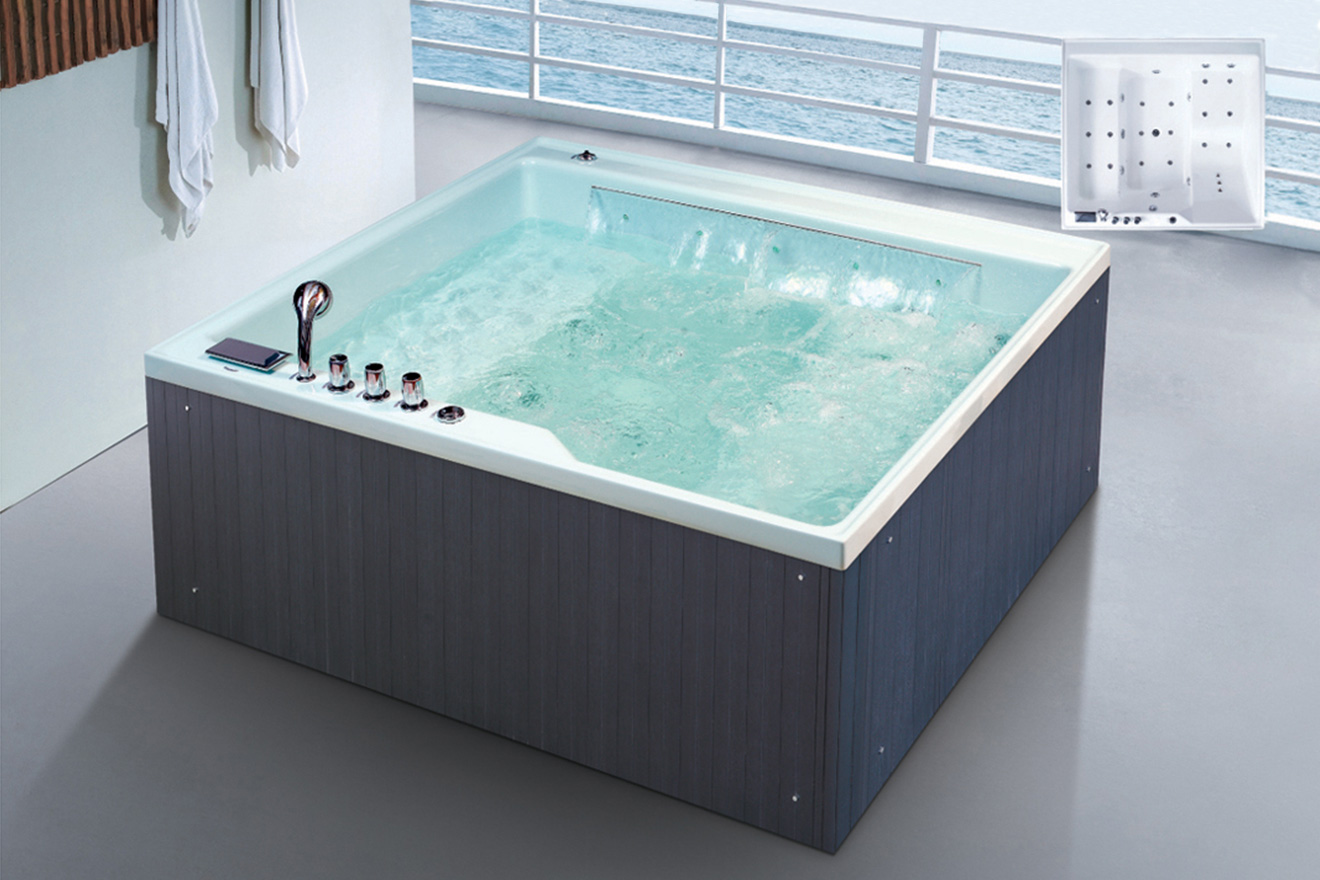
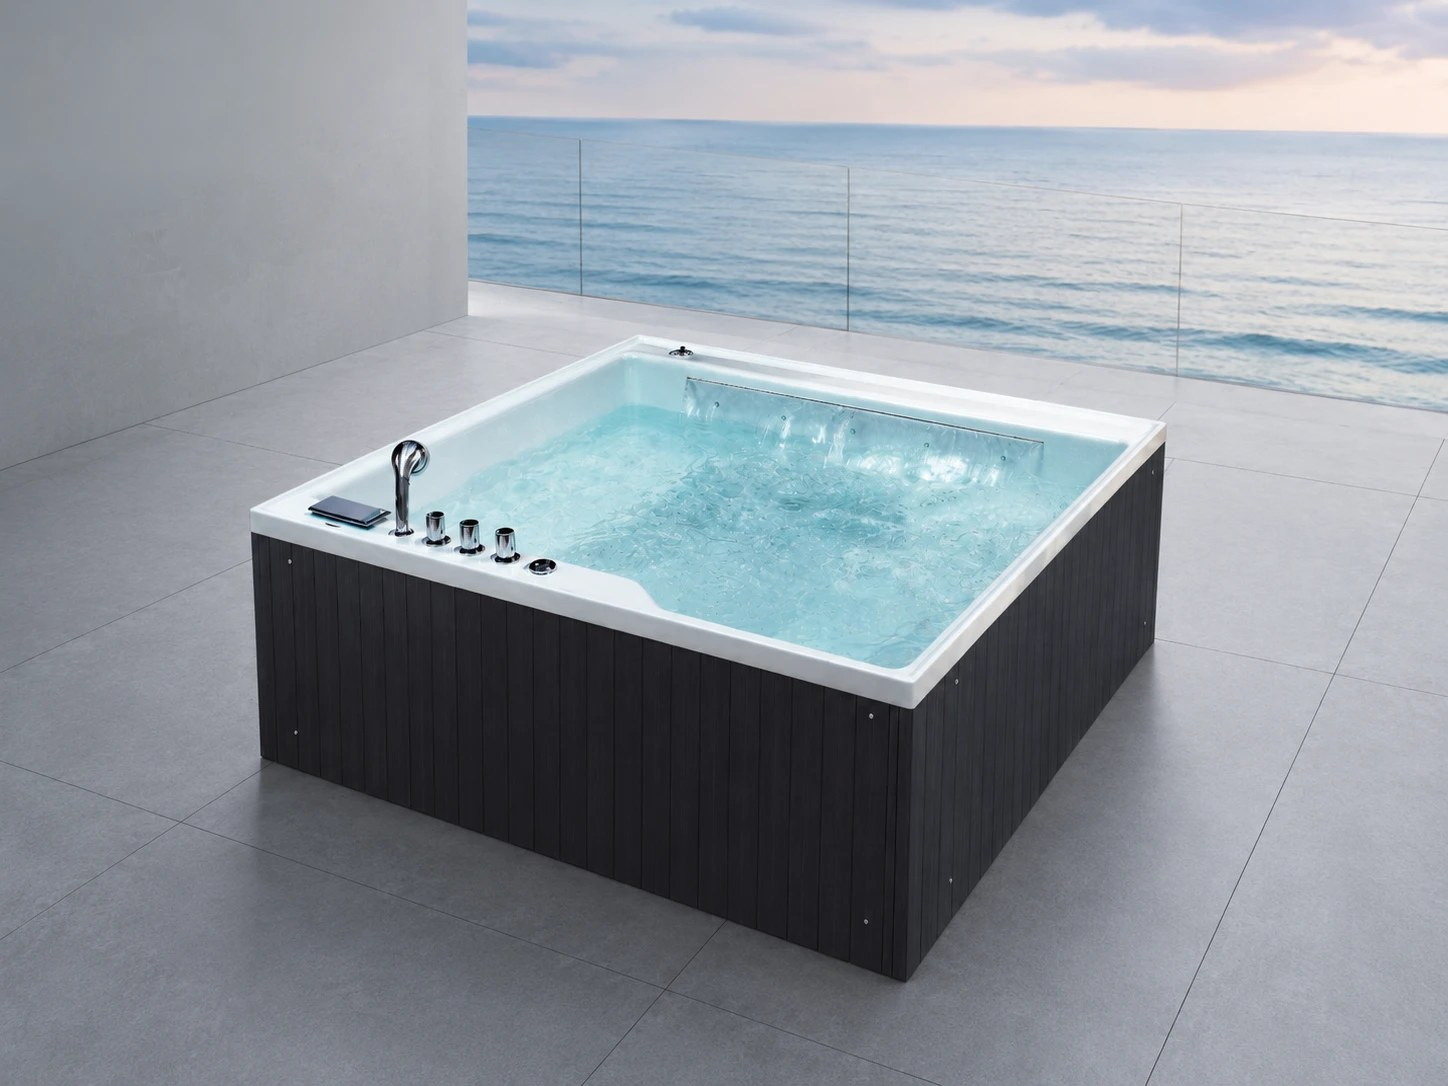
blanc ソレイルの商品画像を差し替え
Claude-Session: https://claude.ai/code/session_01DrNNKTKMSrygxVDYMT1CpJ

diff --git a/estimate/app.js b/estimate/app.js
@@ -456,13 +456,13 @@ function getDiscountRate() {
   return 0;
 }
 
-const IMG_V = '?v=5';
+const IMG_V = '?v=6';
 function imgWrap(filename, wrapClass) {
-  return `<div class="${wrapClass}"><img src="images/${filename}.jpg.jpg?v=5" alt="" onerror="this.src='images/${filename}.jpg.jpeg?v=5';this.onerror=function(){this.src='images/${filename}.jpg.png?v=5';this.onerror=function(){this.src='images/${filename}.jpg?v=5';this.onerror=function(){this.parentElement.style.display='none';}}}"></div>`;
+  return `<div class="${wrapClass}"><img src="images/${filename}.jpg.jpg?v=6" alt="" onerror="this.src='images/${filename}.jpg.jpeg?v=6';this.onerror=function(){this.src='images/${filename}.jpg.png?v=6';this.onerror=function(){this.src='images/${filename}.jpg?v=6';this.onerror=function(){this.parentElement.style.display='none';}}}"></div>`;
 }
 function heroImg(filename, cssClass, style) {
   const styleAttr = style ? ` style="${style}"` : '';
-  return `<img class="${cssClass}"${styleAttr} src="images/${filename}.jpg.jpg?v=5" alt="" onerror="this.src='images/${filename}.jpg.jpeg?v=5';this.onerror=function(){this.src='images/${filename}.jpg.png?v=5';this.onerror=function(){this.src='images/${filename}.jpg?v=5';this.onerror=function(){this.style.display='none';}}}">`;
+  return `<img class="${cssClass}"${styleAttr} src="images/${filename}.jpg.jpg?v=6" alt="" onerror="this.src='images/${filename}.jpg.jpeg?v=6';this.onerror=function(){this.src='images/${filename}.jpg.png?v=6';this.onerror=function(){this.src='images/${filename}.jpg?v=6';this.onerror=function(){this.style.display='none';}}}">`;
 }
 
 function isDiscountValid() {
@@ -934,7 +934,7 @@ function renderJacSeries() {
       ${BLANC_SERIES.map((s, i) => {
         const sel = state.jac.seriesIdx === i ? 'selected' : '';
         return `<div class="card-series-overlay ${sel}" data-idx="${i}">
-          <img class="card-series-overlay-img" src="images/blanc_${s.id}.jpg.jpg?v=5" alt="" onerror="this.src='images/blanc_${s.id}.jpg.jpeg?v=5';this.onerror=function(){this.src='images/blanc_${s.id}.jpg.png?v=5';this.onerror=function(){this.src='images/blanc_${s.id}.jpg?v=5';this.onerror=function(){this.style.display='none';}};}">
+          <img class="card-series-overlay-img" src="images/blanc_${s.id}.jpg.jpg?v=6" alt="" onerror="this.src='images/blanc_${s.id}.jpg.jpeg?v=6';this.onerror=function(){this.src='images/blanc_${s.id}.jpg.png?v=6';this.onerror=function(){this.src='images/blanc_${s.id}.jpg?v=6';this.onerror=function(){this.style.display='none';}};}">
           <div class="card-series-overlay-body">
             <div class="card-series-overlay-name">${s.name}</div>
             <div class="card-series-overlay-sub">${s.nameJa}</div>
@@ -1834,7 +1834,7 @@ function render() {
     <div class="header">
       <a href="../" style="text-decoration:none;color:#888;font-size:11px;letter-spacing:0.06em;display:flex;align-items:center;gap:4px;padding:4px 8px;border:1px solid #E2E2E2;border-radius:3px;background:#fff;">← ホーム</a>
       <div class="header-logo">簡易見積もりシステム</div>
-      <a href="../" style="display:block;line-height:0;"><img class="header-logo-img" src="images/sense_logo.jpg.png.png?v=5" alt="SENSE Product Company — ホームへ" onerror="this.src='images/sense_logo.jpg.png?v=5';this.onerror=function(){this.style.display='none';}"></a>
+      <a href="../" style="display:block;line-height:0;"><img class="header-logo-img" src="images/sense_logo.jpg.png.png?v=6" alt="SENSE Product Company — ホームへ" onerror="this.src='images/sense_logo.jpg.png?v=6';this.onerror=function(){this.style.display='none';}"></a>
     </div>
     ${renderFromHearingBanner()}
     ${progressBar}
